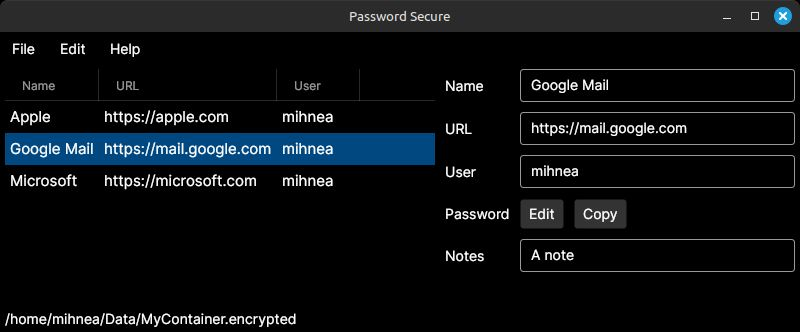
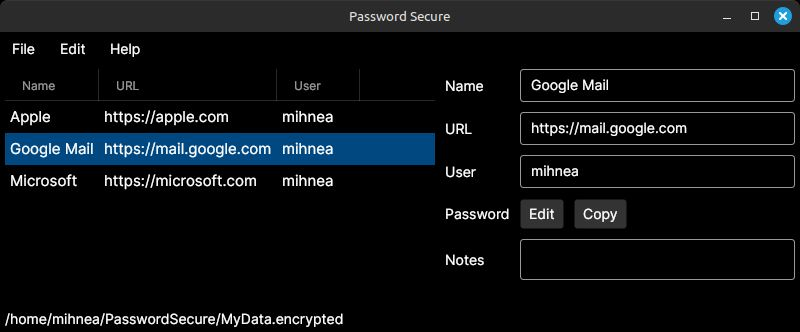
Added default folder for encrypted files

diff --git a/PasswordSecure/Presentation/MainPresenter.cs b/PasswordSecure/Presentation/MainPresenter.cs
@@ -1,5 +1,6 @@
 using System;
 using System.Collections.Generic;
+using System.IO;
 using System.Linq;
 using System.Threading.Tasks;
 using Avalonia.Controls;
@@ -19,31 +20,10 @@ public class MainPresenter
 {
 	static MainPresenter()
 	{
-		var encryptedFileTypes = new List<FilePickerFileType>
-		{
-			new FilePickerFileType("Encrypted files (*.encrypted)")
-			{
-				Patterns = new List<string>
-				{
-					"*.encrypted"
-				}
-			}
-		};
+		EncryptedDataFolderPath = GetEncryptedDataFolderPath();
+		CreateEncryptedDataFolderIfNecessary();
 
-		EncryptedFileCreateOptions = new FilePickerSaveOptions
-		{
-			DefaultExtension = ".encrypted",
-			FileTypeChoices = encryptedFileTypes,
-			ShowOverwritePrompt = true,
-			Title = "Select New Encrypted Container File"
-		};
-		
-		EncryptedFileOpenOptions = new FilePickerOpenOptions
-		{
-			AllowMultiple = false,
-			FileTypeFilter = encryptedFileTypes,
-			Title = "Select Encrypted Container File"
-		};
+		EncryptedFileTypes = GetEncryptedFileTypes();
 	}
 	
 	public MainPresenter(
@@ -72,10 +52,11 @@ public class MainPresenter
 
 	#region Private
 
-	private const int MinimumMasterPasswordLength = 8;
+	private static readonly string EncryptedDataFolderPath;
+	private static readonly IReadOnlyList<FilePickerFileType> EncryptedFileTypes;
 	
-	private static readonly FilePickerSaveOptions EncryptedFileCreateOptions;
-	private static readonly FilePickerOpenOptions EncryptedFileOpenOptions;
+	private const string EncryptedDataFolderName = "PasswordSecure";
+	private const int MinimumMasterPasswordLength = 8;
 	
 	private readonly IDataAccessService _dataAccessService;
 	private readonly IAssemblyVersionProvider _assemblyVersionProvider;
@@ -83,8 +64,7 @@ public class MainPresenter
 	private readonly MainWindow _mainWindow;
 	private readonly AccessParams _accessParams;
 
-	private void OnVisualStateChanged(object? sender, EventArgs e)
-		=> _mainWindow.EnableControls();
+	private void OnVisualStateChanged(object? sender, EventArgs e) => _mainWindow.EnableControls();
 	
 	private async void OnNewMenuClicked(object? sender, AccountEntryCollectionEventArgs e)
 	{
@@ -181,11 +161,9 @@ public class MainPresenter
 		await _mainWindow.CloseWindow();
 	}
 
-	private async void OnHelpMenuClicked(object? sender, EventArgs e)
-		=> await DisplayHelpMessage();
+	private async void OnHelpMenuClicked(object? sender, EventArgs e) => await DisplayHelpMessage();
 	
-	private async Task<bool> SuggestSaveChanges(
-		AccountEntryCollectionEventArgs e, ButtonEnum buttonEnum)
+	private async Task<bool> SuggestSaveChanges(AccountEntryCollectionEventArgs e, ButtonEnum buttonEnum)
 	{
 		var shouldExitWithoutProcessing = false;
 		
@@ -208,8 +186,17 @@ public class MainPresenter
 	
 	private async Task CreateEncryptedContainer()
 	{
-		var encryptedFile = await _mainWindow.StorageProvider.SaveFilePickerAsync(
-			EncryptedFileCreateOptions);
+		var encryptedDataFolder = await GetEncryptedDataFolder();
+		var encryptedFileCreateOptions = new FilePickerSaveOptions
+		{
+			DefaultExtension = ".encrypted",
+			FileTypeChoices = EncryptedFileTypes,
+			ShowOverwritePrompt = true,
+			Title = "Select New Encrypted Container File",
+			SuggestedStartLocation = encryptedDataFolder
+		};
+		
+		var encryptedFile = await _mainWindow.StorageProvider.SaveFilePickerAsync(encryptedFileCreateOptions);
 		
 		if (encryptedFile is null)
 		{
@@ -238,11 +225,20 @@ public class MainPresenter
 		await _dataAccessService.SaveAccountEntries(_accessParams, accountEntryCollection);
 		_mainWindow.PopulateData(accountEntryCollection);
 	}
-	
+
 	private async Task LoadEncryptedContainer()
 	{
-		var encryptedFile = (await _mainWindow.StorageProvider.OpenFilePickerAsync(
-			EncryptedFileOpenOptions)).SingleOrDefault();
+		var encryptedDataFolder = await GetEncryptedDataFolder();
+		var encryptedFileOpenOptions = new FilePickerOpenOptions
+		{
+			AllowMultiple = false,
+			FileTypeFilter = EncryptedFileTypes,
+			Title = "Select Encrypted Container File",
+			SuggestedStartLocation = encryptedDataFolder
+		};
+		
+		var encryptedFile = (await _mainWindow.StorageProvider.OpenFilePickerAsync(encryptedFileOpenOptions))
+			.SingleOrDefault();
 
 		if (encryptedFile is null)
 		{
@@ -250,8 +246,7 @@ public class MainPresenter
 		}
 
 		var inputMasterPasswordWindow = new InputMasterPasswordWindow();
-		var inputMasterPasswordViewModel = new InputMasterPasswordViewModel(
-			inputMasterPasswordWindow, _accessParams);
+		var inputMasterPasswordViewModel = new InputMasterPasswordViewModel(inputMasterPasswordWindow, _accessParams);
 
 		inputMasterPasswordWindow.DataContext = inputMasterPasswordViewModel;
 		await inputMasterPasswordWindow.ShowDialog(_mainWindow);
@@ -322,6 +317,47 @@ public class MainPresenter
 		_accessParams.FilePath = null;
 		
 		_mainWindow.ClearData();
+	}
+	
+	private async Task<IStorageFolder?> GetEncryptedDataFolder()
+		=> await _mainWindow.StorageProvider.TryGetFolderFromPathAsync(EncryptedDataFolderPath);
+
+	private static string GetEncryptedDataFolderPath()
+	{
+		var userProfilePath = Environment.GetFolderPath(Environment.SpecialFolder.UserProfile);
+		var encryptedDataFolderPath = Path.Combine(userProfilePath, EncryptedDataFolderName);
+		
+		return encryptedDataFolderPath;
+	}
+	
+	private static void CreateEncryptedDataFolderIfNecessary()
+	{
+		try
+		{
+			if (!Directory.Exists(EncryptedDataFolderPath))
+			{
+				Directory.CreateDirectory(EncryptedDataFolderPath);
+			}
+		}
+		catch
+		{
+		}
+	}
+
+	private static IReadOnlyList<FilePickerFileType> GetEncryptedFileTypes()
+	{
+		var encryptedFileTypes = new List<FilePickerFileType>
+		{
+			new FilePickerFileType("Encrypted files (*.encrypted)")
+			{
+				Patterns = new List<string>
+				{
+					"*.encrypted"
+				}
+			}
+		};
+		
+		return encryptedFileTypes;
 	}
 
 	#endregion

diff --git a/PasswordSecure/Presentation/ViewModels/AccountEntryCollectionViewModel.cs b/PasswordSecure/Presentation/ViewModels/AccountEntryCollectionViewModel.cs
@@ -23,7 +23,7 @@ public class AccountEntryCollectionViewModel : ObservableObject
 		
 		RegisterEventHandlers();
 
-		AddNewAccountEntryCommand = GetAddNewAccountEntryCommand();
+		AddAccountEntryCommand = GetAddAccountEntryCommand();
 		DeleteAccountEntryCommand = GetDeleteAccountEntryCommand();
 		SortAccountEntriesCommand = GetSortAccountEntriesCommand();
 
@@ -49,7 +49,7 @@ public class AccountEntryCollectionViewModel : ObservableObject
 	public event EventHandler? SelectedAccountEntryViewModelChanged;
 	public event EventHandler? PasswordChanged;
 	
-	public ICommand AddNewAccountEntryCommand { get; }
+	public ICommand AddAccountEntryCommand { get; }
 	public ICommand DeleteAccountEntryCommand { get; }
 	public ICommand SortAccountEntriesCommand { get; }
 	
@@ -116,7 +116,7 @@ public class AccountEntryCollectionViewModel : ObservableObject
 		}
 	}
 
-	private ICommand GetAddNewAccountEntryCommand()
+	private ICommand GetAddAccountEntryCommand()
 		=> new RelayCommand(
 			() =>
 			{

diff --git a/PasswordSecure/Infrastructure/Services/AesDataEncryptionService.cs b/PasswordSecure/Infrastructure/Services/AesDataEncryptionService.cs
@@ -43,7 +43,7 @@ public class AesDataEncryptionService : IDataEncryptionService
 	private const int KeySizeInBits = 256;
 	private const int PasswordSizeInBytes = KeySizeInBits / 8;
 	private const string EncryptionError = "Could not encrypt data.";
-	private const string DecryptionError = "Could not decrypt data. The probable cause is an incorrect password.";
+	private const string DecryptionError = "Could not decrypt data. The likely cause is an incorrect password.";
 	
 	private static readonly byte[] Salt =
 	{

diff --git a/README.md b/README.md
@@ -1,7 +1,16 @@
 # passwordsecure
 Password Secure is a cross-platform password manager that uses strong AES-256 encryption.
 
-Password Secure targets .NET 8 on Linux, Windows and macOS.
+It is written in C#, and targets .NET 8 on Linux, Windows and macOS.
+
+Password Secure encrypts the user's accounts and web sites login data, using a master password.
+
+Features:
+* state-of-the-art AES-256 symmetric-key encryption
+* offline storage, using portable files
+* automatic backup creation, before updating the stored data
+* secure copying and editing of passwords, without revealing them
+* automatic clipboard clearing on application exit
 
 ![Screenshot 1](https://raw.githubusercontent.com/mihnea-radulescu/passwordsecure/main/Screenshot-Dark.jpg "Password Secure - Dark Screenshot")
 
